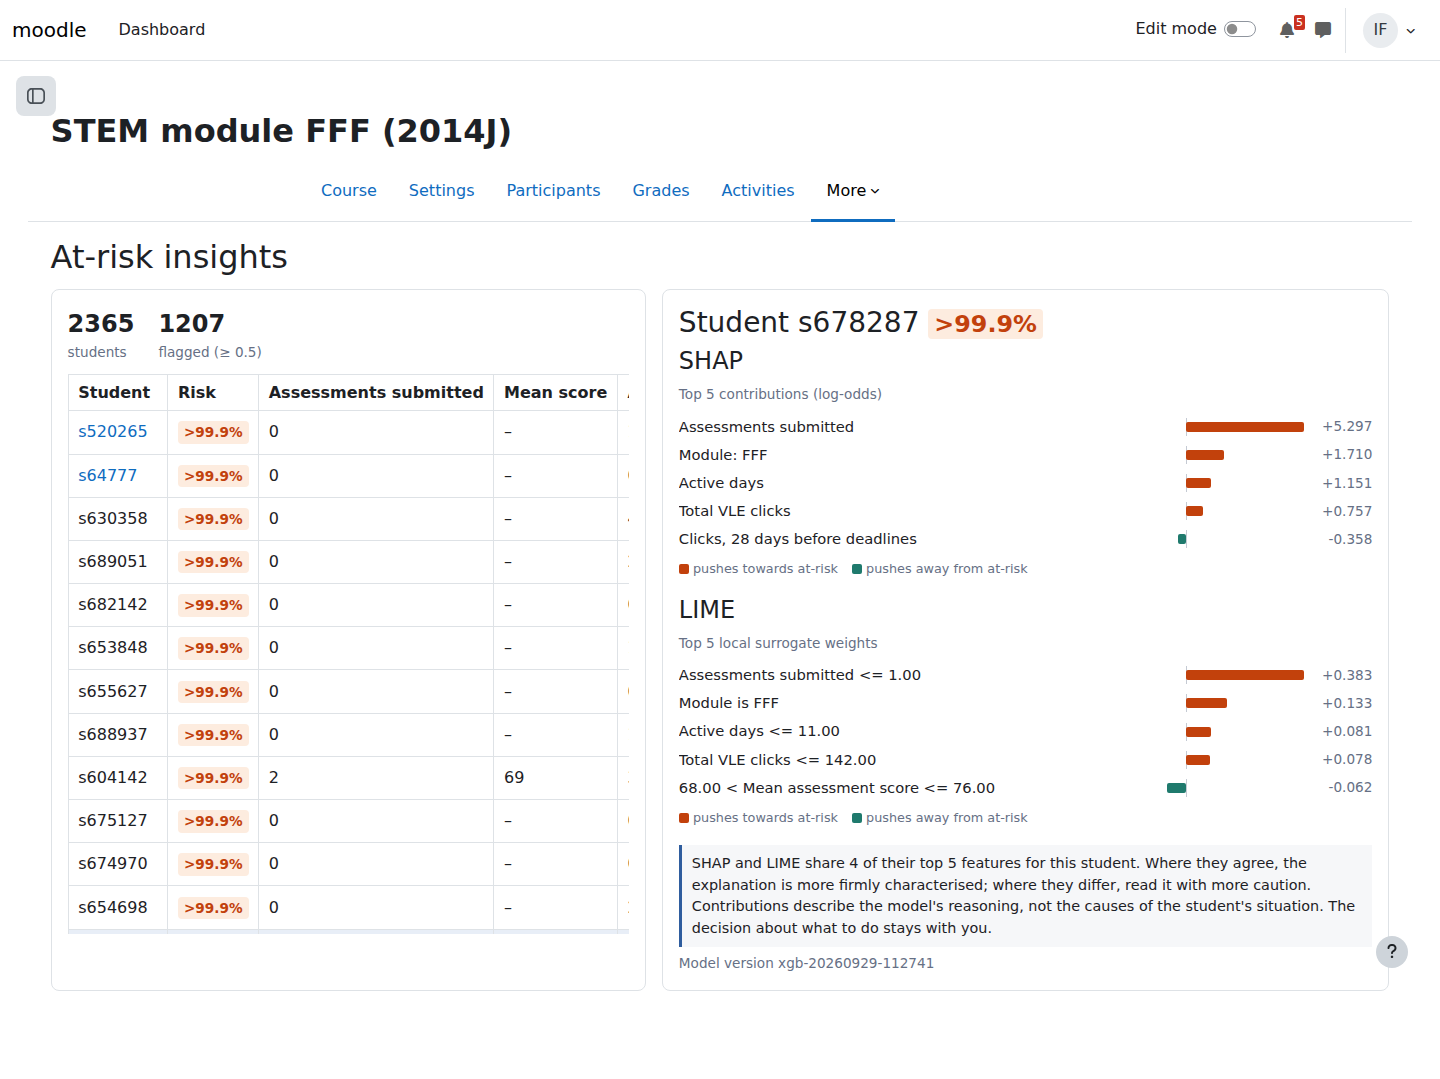
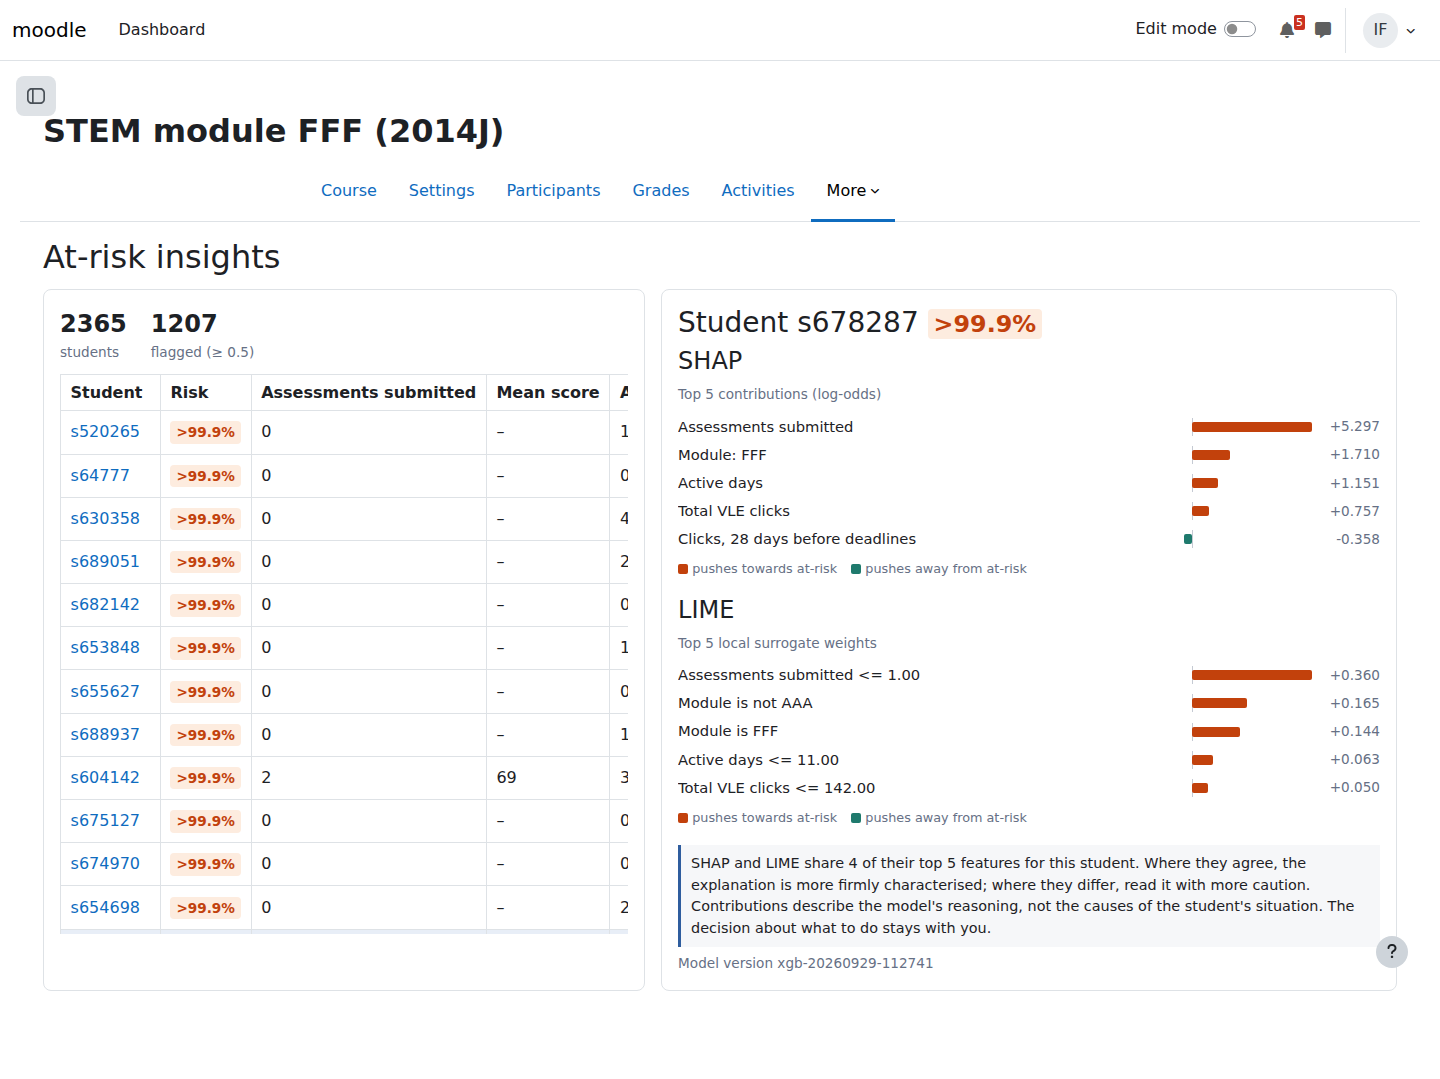
Make LIME deterministic, update Moodle screenshots

diff --git a/xai-dashboard/ml/explainability.py b/xai-dashboard/ml/explainability.py
@@ -73,6 +73,11 @@ class Explainer:
         return [{'feature': self.names[j], 'value': float(self.Xt[i, j]), 'contribution': float(v[j])} for j in order]
 
     def local_lime(self, i, k=5, num_samples=1000):
+        # Reset the sampler so the same student always gets the same explanation.
+        rs = np.random.RandomState(SEED)
+        self.lime.random_state = self.lime.base.random_state = rs
+        if self.lime.discretizer is not None:
+            self.lime.discretizer.random_state = rs
         exp = self.lime.explain_instance(self.Xt[i], self.model.predict_proba, num_features=k,
                                          num_samples=num_samples, labels=(1,))
         return [{'condition': cond, 'contribution': float(w)} for cond, w in exp.as_list(label=1)]
